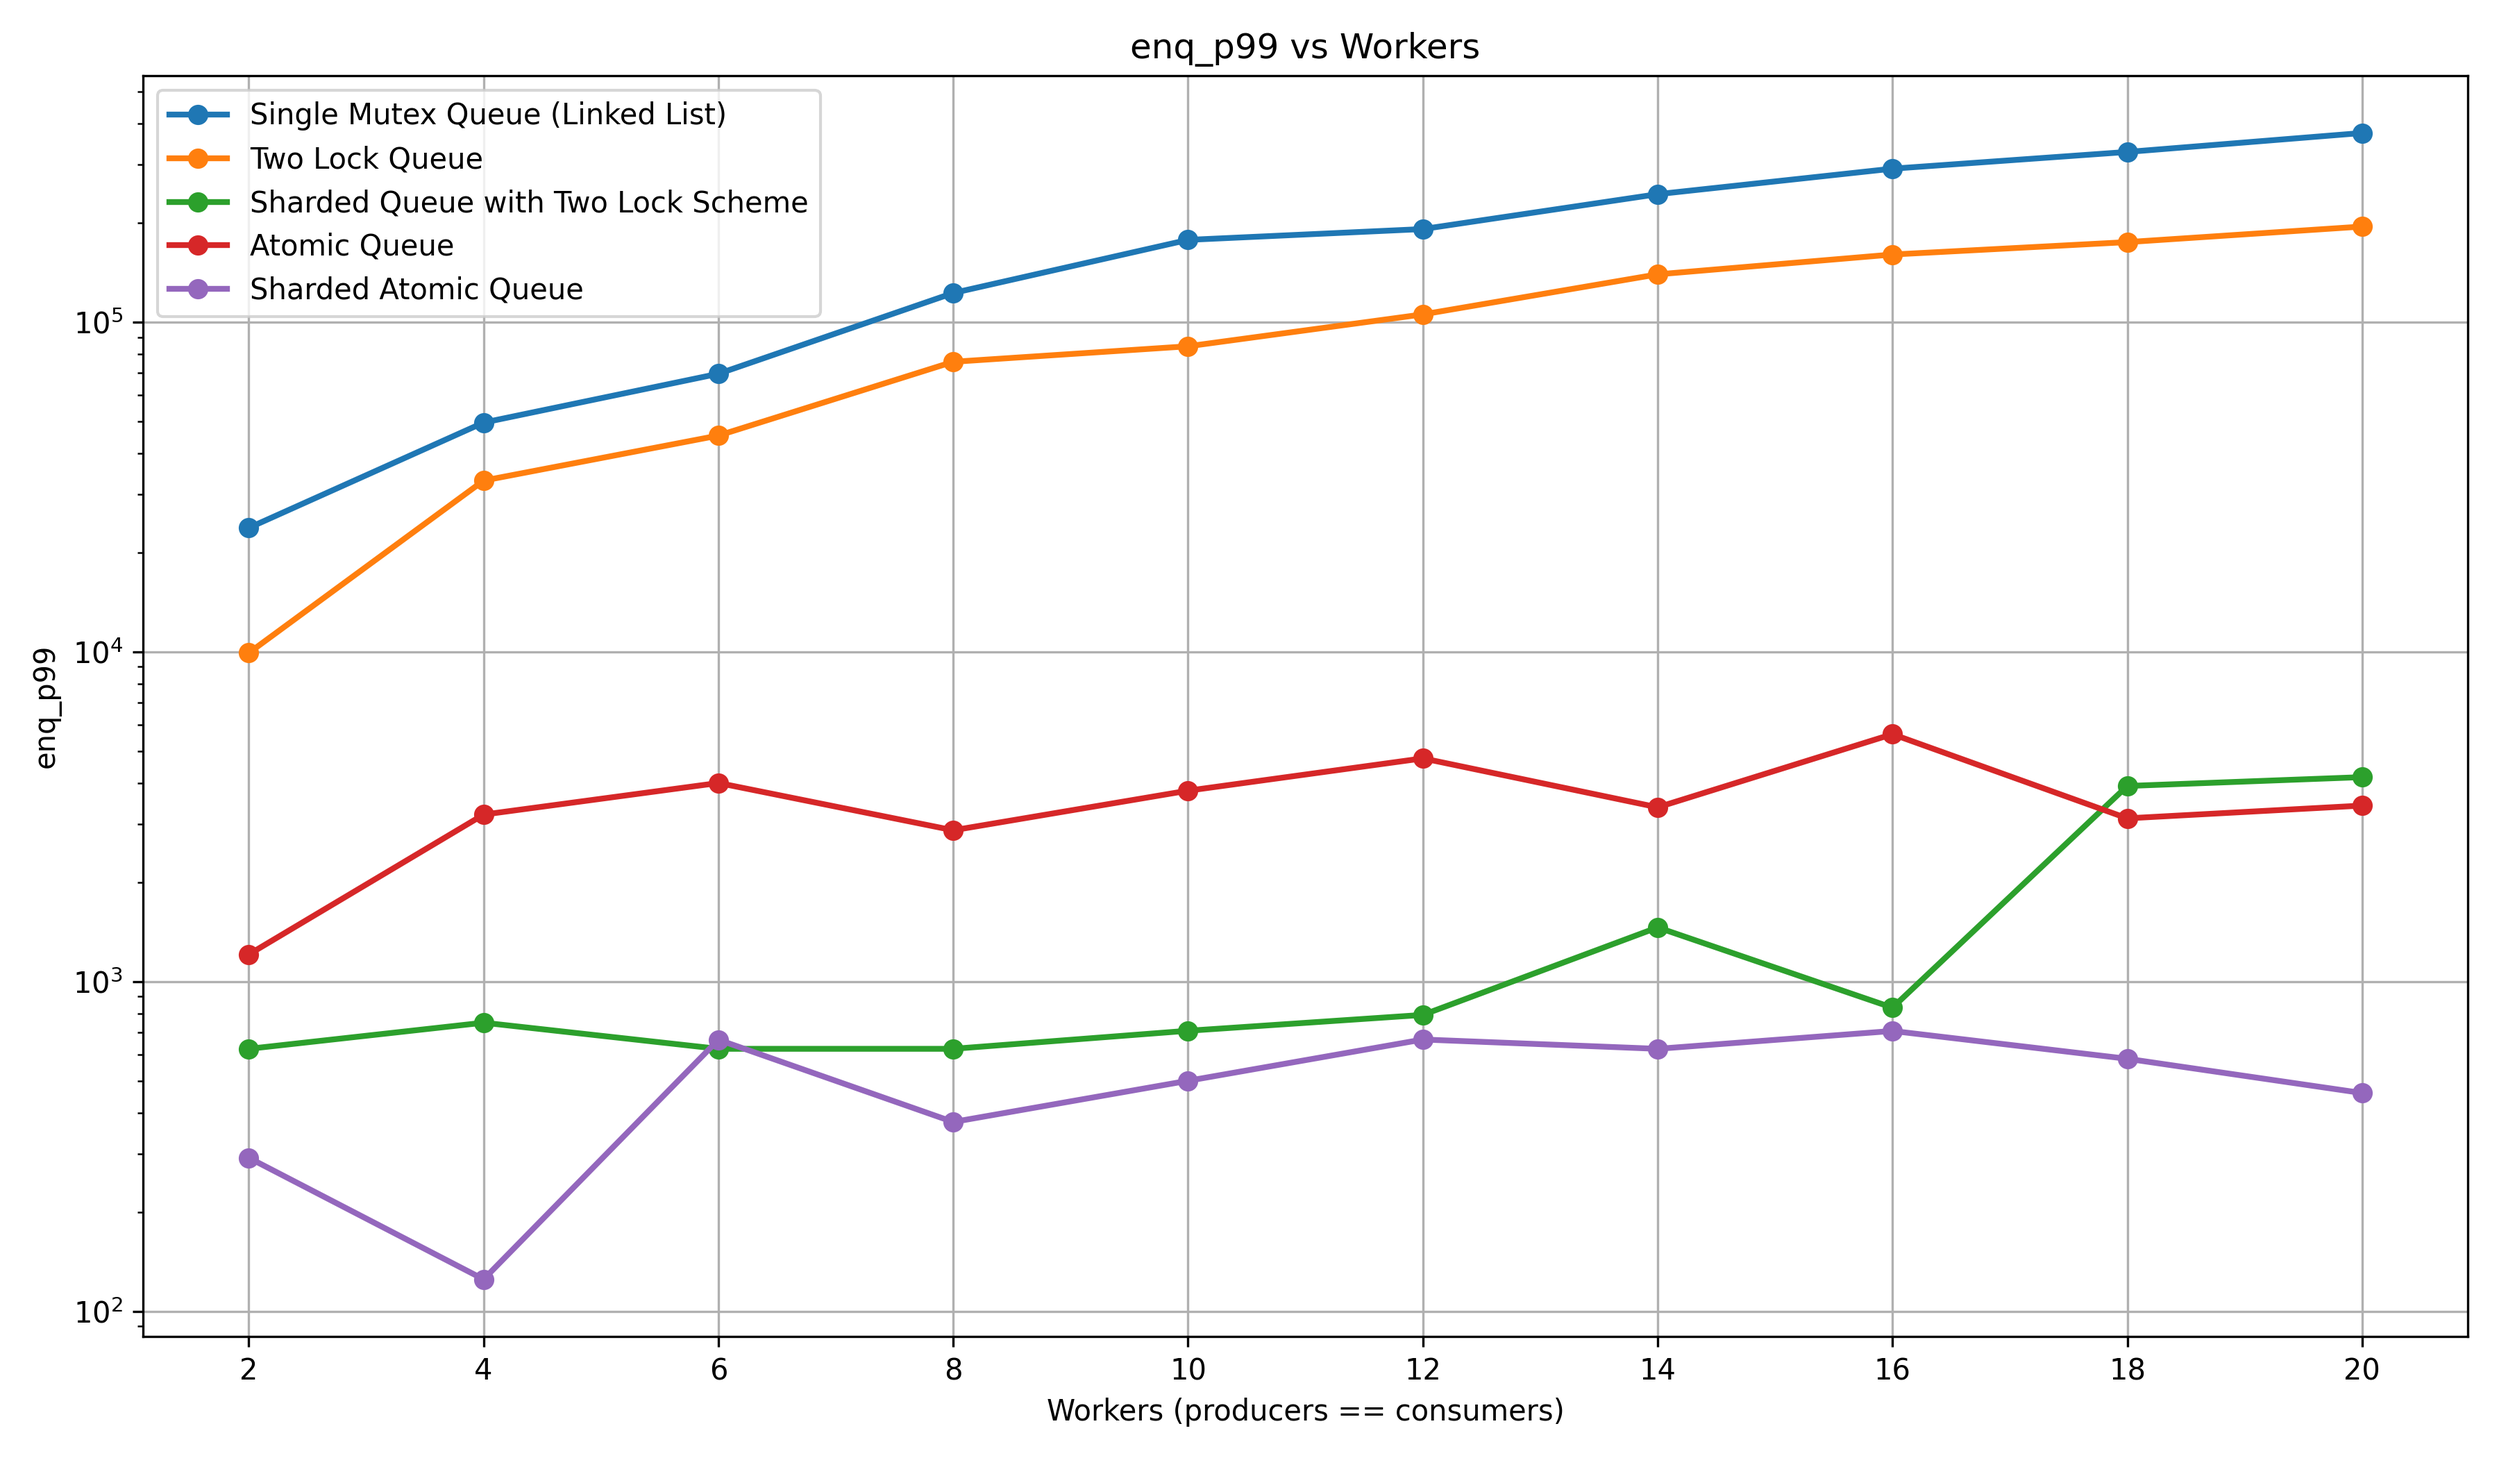
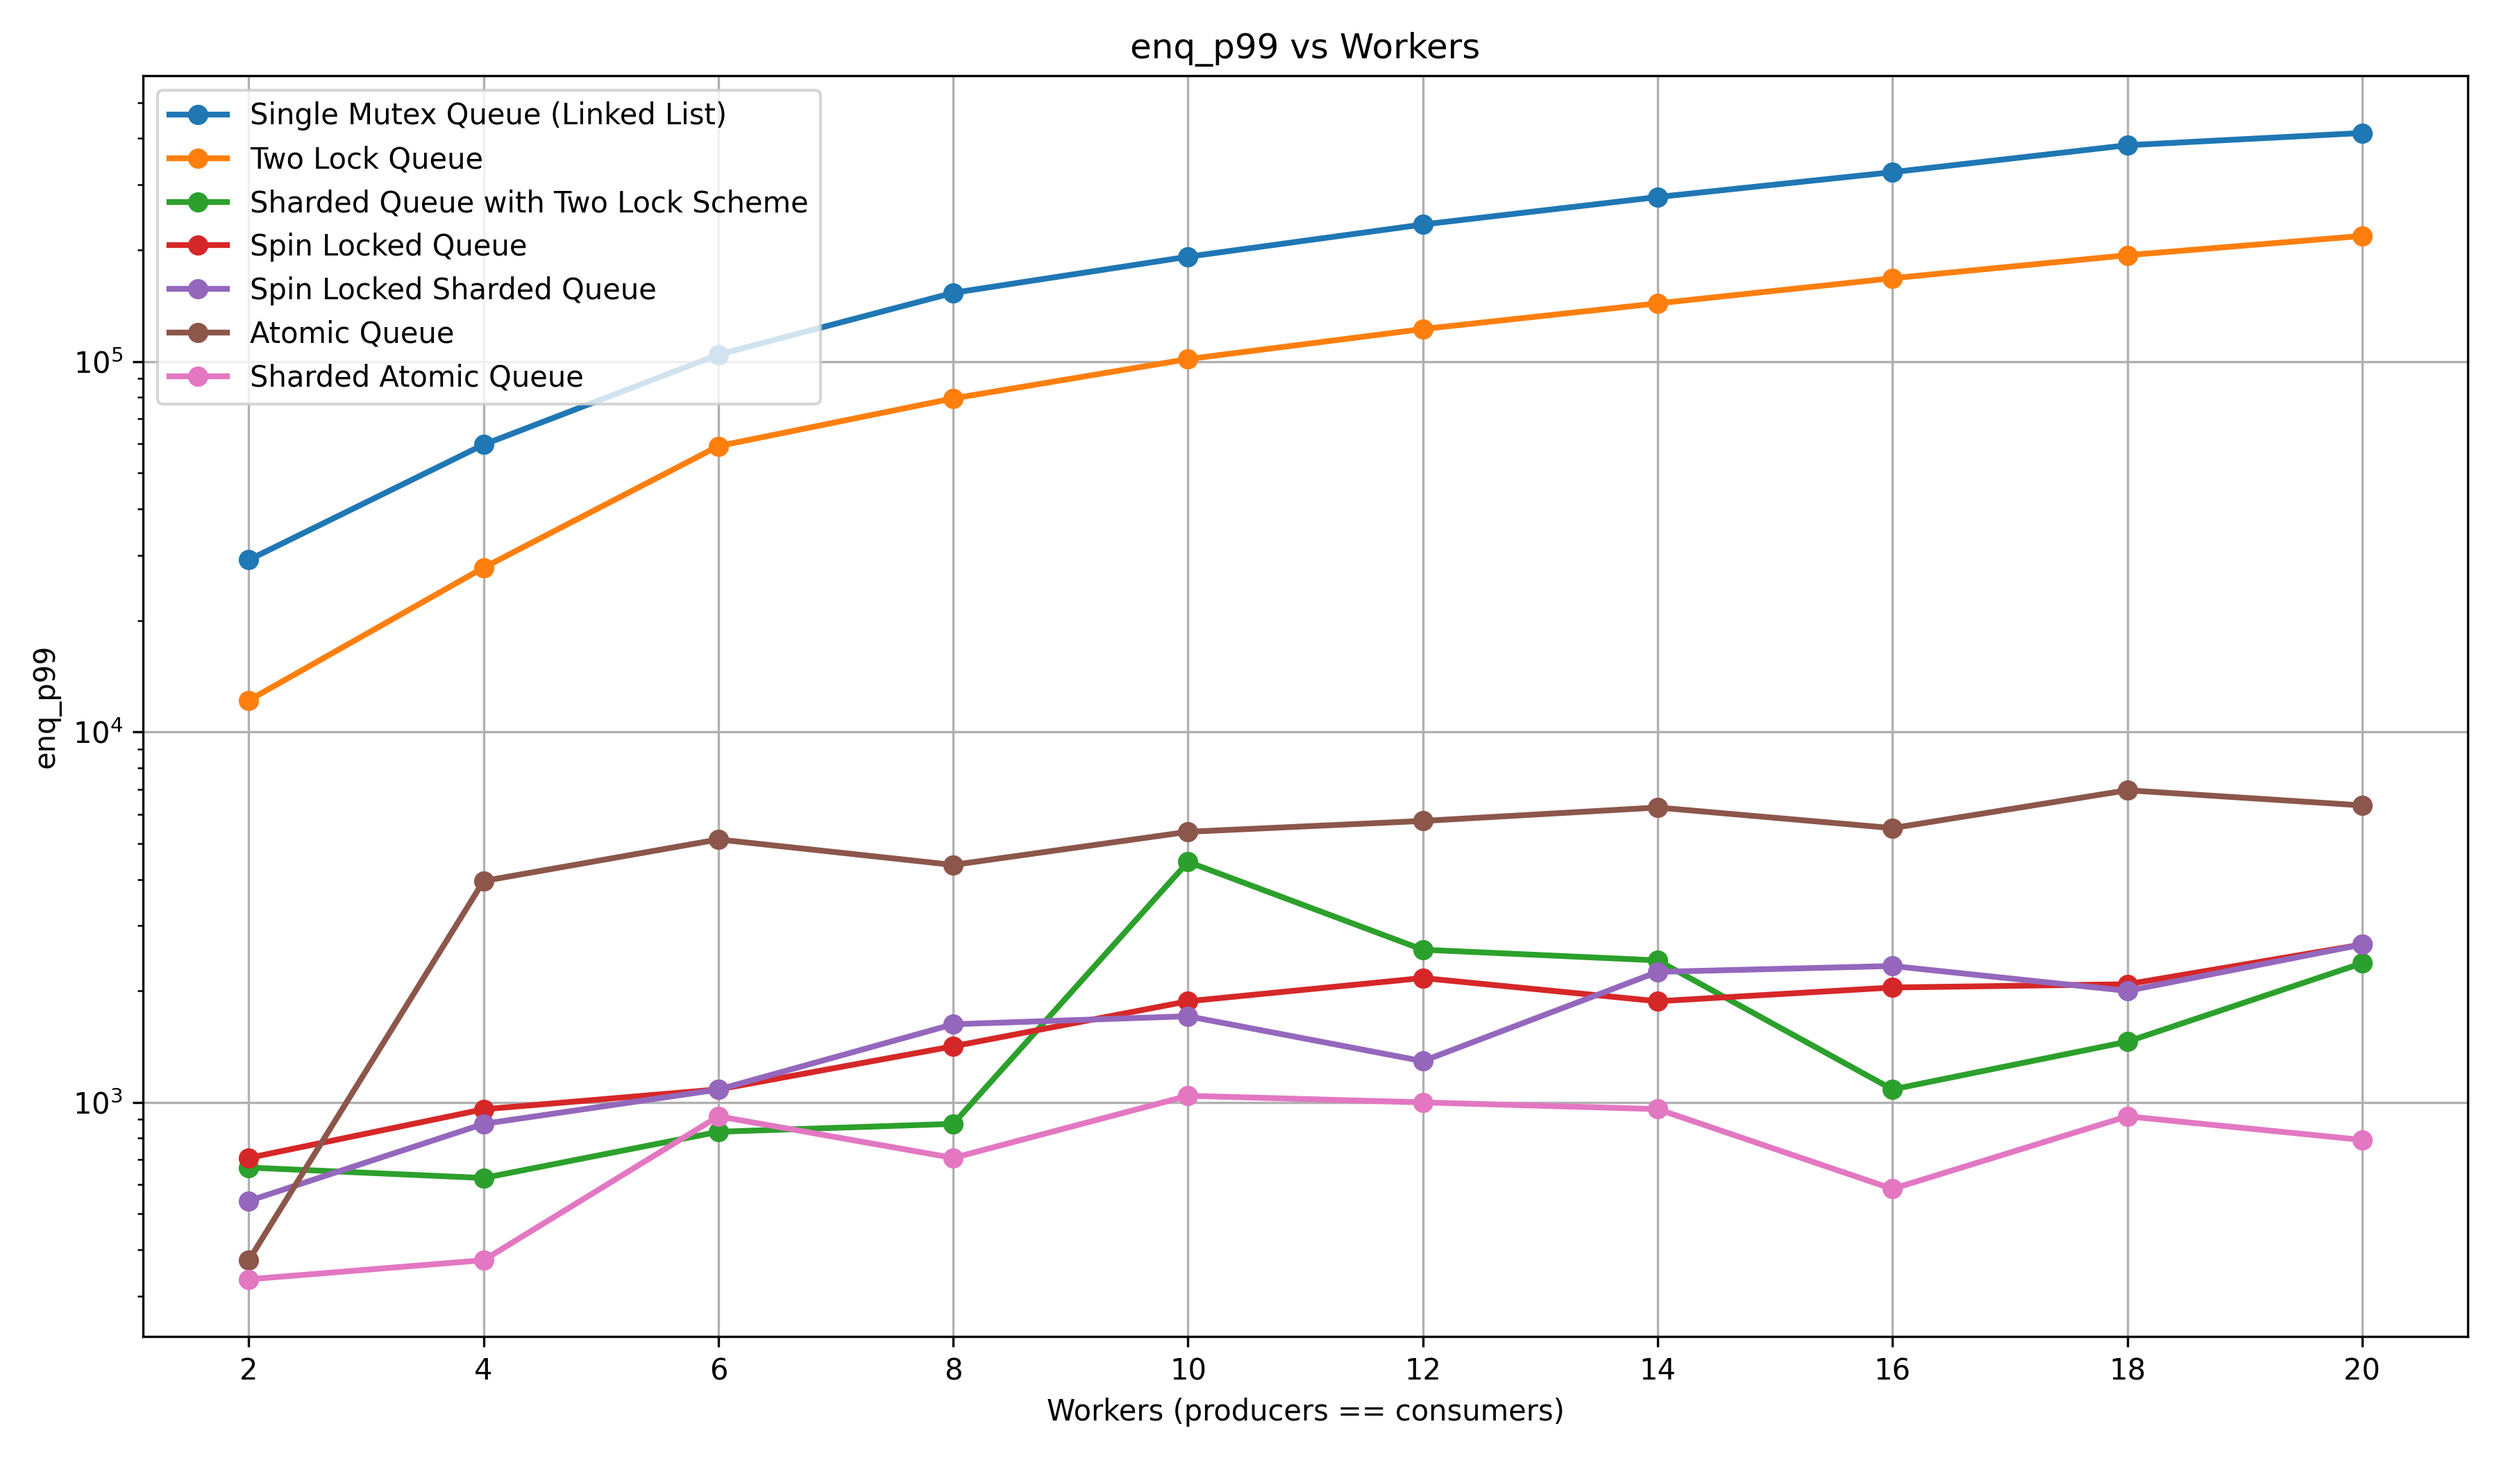
added sharded queues

diff --git a/queues/msgQueuePureSpinLockSharded.h b/queues/msgQueuePureSpinLockSharded.h
@@ -1,0 +1,142 @@
+#pragma once
+#include <cstdint>
+#include <cstring>
+#include <atomic>
+#include <thread>
+#include "slot.h"
+#include "../utils/metrics.h"
+
+#define NUM_SHARDS 4
+
+/**
+ * @brief Sharded queue using two spinlocks per shard.
+ *
+ * Each shard has its own:
+ *   - head index + head spinlock
+ *   - tail index + tail spinlock
+ *
+ * Producers and consumers map to shards by worker_id % NUM_SHARDS.
+ */
+class MessageQueueSharded {
+public:
+    MessageQueueSharded(size_t total_capacity = CAPACITY) {
+        size_t per = total_capacity / NUM_SHARDS;
+        if (per == 0) per = 1;
+
+        shard_capacity = per;
+
+        slots = new Slot[NUM_SHARDS * shard_capacity];
+
+        head_index.resize(NUM_SHARDS, 0);
+        tail_index.resize(NUM_SHARDS, 0);
+        full_flag.resize(NUM_SHARDS, false);
+        count.resize(NUM_SHARDS, 0);
+    }
+
+    ~MessageQueueSharded() {
+        delete[] slots;
+    }
+
+    // ------------------------------------------------------------
+    // ENQUEUE into shard via spinlock pair
+    // ------------------------------------------------------------
+    bool enqueue(const uint8_t* data, ThreadMetrics& local, size_t worker_id) {
+        if (!data) return false;
+
+        size_t shard = worker_id % NUM_SHARDS;
+        size_t base = shard * shard_capacity;
+
+        // ----------------------
+        // Acquire TAIL LOCK
+        // ----------------------
+        uint64_t wait_start = Instrumentation::now_ns();
+        tail_lock[shard].lock();
+        uint64_t wait_end = Instrumentation::now_ns();
+        Instrumentation::on_lock_wait(local, wait_end - wait_start);
+
+        uint64_t crit_start = Instrumentation::now_ns();
+
+        if (full_flag[shard]) {
+            uint64_t crit_end = Instrumentation::now_ns();
+            Instrumentation::on_critical_section(local, crit_end - crit_start);
+            tail_lock[shard].unlock();
+            return false;
+        }
+
+        size_t t = tail_index[shard];
+        std::memcpy(slots[base + t].data, data, BLOCK_SIZE);
+
+        t = (t + 1) % shard_capacity;
+        tail_index[shard] = t;
+        count[shard]++;
+
+        if (t == head_index[shard]) {
+            full_flag[shard] = true;
+        }
+
+        uint64_t crit_end = Instrumentation::now_ns();
+        Instrumentation::on_critical_section(local, crit_end - crit_start);
+
+        tail_lock[shard].unlock();
+        return true;
+    }
+
+    // ------------------------------------------------------------
+    // DEQUEUE via spinlock head-lock
+    // ------------------------------------------------------------
+    bool dequeue(uint8_t* out_data, ThreadMetrics& local, size_t worker_id) {
+        if (!out_data) return false;
+
+        size_t shard = worker_id % NUM_SHARDS;
+        size_t base = shard * shard_capacity;
+
+        // ----------------------
+        // Acquire HEAD LOCK
+        // ----------------------
+        uint64_t wait_start = Instrumentation::now_ns();
+        head_lock[shard].lock();
+        uint64_t wait_end = Instrumentation::now_ns();
+        Instrumentation::on_lock_wait(local, wait_end - wait_start);
+
+        uint64_t crit_start = Instrumentation::now_ns();
+
+        if (!full_flag[shard] &&
+            head_index[shard] == tail_index[shard]) {
+
+            uint64_t crit_end = Instrumentation::now_ns();
+            Instrumentation::on_critical_section(local, crit_end - crit_start);
+            head_lock[shard].unlock();
+            return false;
+        }
+
+        size_t h = head_index[shard];
+
+        std::memcpy(out_data, slots[base + h].data, BLOCK_SIZE);
+
+        h = (h + 1) % shard_capacity;
+        head_index[shard] = h;
+        count[shard]--;
+        full_flag[shard] = false;
+
+        uint64_t crit_end = Instrumentation::now_ns();
+        Instrumentation::on_critical_section(local, crit_end - crit_start);
+
+        head_lock[shard].unlock();
+        return true;
+    }
+
+private:
+    Slot* slots;
+
+    size_t shard_capacity;
+
+    // Per-shard ring metadata
+    std::vector<size_t> head_index;
+    std::vector<size_t> tail_index;
+    std::vector<bool> full_flag;
+    std::vector<size_t> count;
+
+    // Two spinlocks per shard
+    SpinLock head_lock[NUM_SHARDS];
+    SpinLock tail_lock[NUM_SHARDS];
+};

diff --git a/queues/msgQueuePureSpinLock.h b/queues/msgQueuePureSpinLock.h
@@ -1,0 +1,111 @@
+#pragma once
+#include <cstdint>
+#include <cstring>
+#include <atomic>
+#include <chrono>
+#include "slot.h"
+#include "../utils/metrics.h"
+
+/**
+ * @class MessageQueueMutex
+ * @brief Spinlock-protected fixed-size MPMC ring buffer.
+ *
+ * Same semantics as before, but now ALL synchronization uses
+ * the SpinLock. No mutex, no blocking, no OS scheduling path.
+ */
+class MessageQueueMutex {
+public:
+
+    MessageQueueMutex(size_t capacity = CAPACITY)
+        : cap(capacity),
+          head_index(0),
+          tail_index(0),
+          full_flag(false),
+          count(0)
+    {
+        slots = new Slot[cap];
+    }
+
+    ~MessageQueueMutex() {
+        delete[] slots;
+    }
+
+    // ------------------------------------------------------------
+    // ENQUEUE (spinlock)
+    // ------------------------------------------------------------
+    bool enqueue(const uint8_t* data, ThreadMetrics& local, size_t worker_id) {
+        if (!data) return false;
+
+        uint64_t wait_start = Instrumentation::now_ns();
+        lock.lock();                   // spin until acquired
+        uint64_t wait_end = Instrumentation::now_ns();
+        Instrumentation::on_lock_wait(local, wait_end - wait_start);
+
+        uint64_t crit_start = Instrumentation::now_ns();
+
+        if (full_flag) {
+            uint64_t crit_end = Instrumentation::now_ns();
+            Instrumentation::on_critical_section(local, crit_end - crit_start);
+            lock.unlock();
+            return false;
+        }
+
+        std::memcpy(slots[tail_index].data, data, BLOCK_SIZE);
+
+        tail_index = (tail_index + 1) % cap;
+        count++;
+
+        if (tail_index == head_index)
+            full_flag = true;
+
+        uint64_t crit_end = Instrumentation::now_ns();
+        Instrumentation::on_critical_section(local, crit_end - crit_start);
+
+        lock.unlock();
+        return true;
+    }
+
+    // ------------------------------------------------------------
+    // DEQUEUE (spinlock)
+    // ------------------------------------------------------------
+    bool dequeue(uint8_t* out_data, ThreadMetrics& local, size_t worker_id) {
+        if (!out_data) return false;
+
+        uint64_t wait_start = Instrumentation::now_ns();
+        lock.lock();  
+        uint64_t wait_end = Instrumentation::now_ns();
+        Instrumentation::on_lock_wait(local, wait_end - wait_start);
+
+        uint64_t crit_start = Instrumentation::now_ns();
+
+        if (!full_flag && head_index == tail_index) {
+            uint64_t crit_end = Instrumentation::now_ns();
+            Instrumentation::on_critical_section(local, crit_end - crit_start);
+            lock.unlock();
+            return false;
+        }
+
+        std::memcpy(out_data, slots[head_index].data, BLOCK_SIZE);
+
+        head_index = (head_index + 1) % cap;
+        count--;
+        full_flag = false;
+
+        uint64_t crit_end = Instrumentation::now_ns();
+        Instrumentation::on_critical_section(local, crit_end - crit_start);
+
+        lock.unlock();
+        return true;
+    }
+
+private:
+    Slot* slots;
+    size_t cap;
+
+    size_t head_index;
+    size_t tail_index;
+    bool full_flag;
+    size_t count;
+
+    SpinLock lock;     // <-- the ONLY lock now
+};

diff --git a/utils/metrics.h b/utils/metrics.h
@@ -126,7 +126,7 @@ struct Instrumentation {
      */
     static inline void on_enqueue_latency(ThreadMetrics& m, uint64_t ns, bool succ) {
         m.enq_count++;
-        m.enq_latencies.push_back(ns);
+        if (succ) m.enq_latencies.push_back(ns);
         m.enq_success.push_back(succ ? 1 : 0);
         if (!succ) m.failed_enqs++;
     }
@@ -139,7 +139,7 @@ struct Instrumentation {
      */
     static inline void on_dequeue_latency(ThreadMetrics& m, uint64_t ns, bool succ) {
         m.deq_count++;
-        m.deq_latencies.push_back(ns);
+        if (succ) m.deq_latencies.push_back(ns);
         m.deq_success.push_back(succ ? 1 : 0);
         if (!succ) m.failed_deqs++;
     }

diff --git a/queues/slot.h b/queues/slot.h
@@ -4,6 +4,23 @@
 #define BLOCK_SIZE 64
 #define CAPACITY 2048
 
+// Very small spinlock implementation
+struct SpinLock {
+    std::atomic_flag flag = ATOMIC_FLAG_INIT;
+
+    void lock() {
+        // Pure spin
+        while (flag.test_and_set(std::memory_order_acquire)) {
+            // Optional: add a pause or yield for politeness
+            // std::this_thread::yield();
+        }
+    }
+
+    void unlock() {
+        flag.clear(std::memory_order_release);
+    }
+};
+
 /**
  * @brief Fixed-size slot used by all queue implementations.
  *

diff --git a/queues/msgQueueMutex.h b/queues/msgQueueMutex.h
@@ -7,6 +7,7 @@
 #include "slot.h"
 #include "../utils/metrics.h"
 
+
 /**
  * @class MessageQueueMutex
  * @brief Fixed-size MPMC circular queue protected by a single global mutex.

diff --git a/main.cpp b/main.cpp
@@ -1,7 +1,5 @@
 #include <iostream>
-#include <vector>
 #include <string>
-#include <chrono>
 
 #include "queues/msgQueueMutex.h"
 #include "queues/msgQueueTwoLock.h"

diff --git a/utils/StatsSummary.h b/utils/StatsSummary.h
@@ -2,6 +2,7 @@
 #include <vector>
 #include <string>
 #include <algorithm>
+#include <iostream>
 #include <fstream>
 #include <string>
 #include <cstdint>
